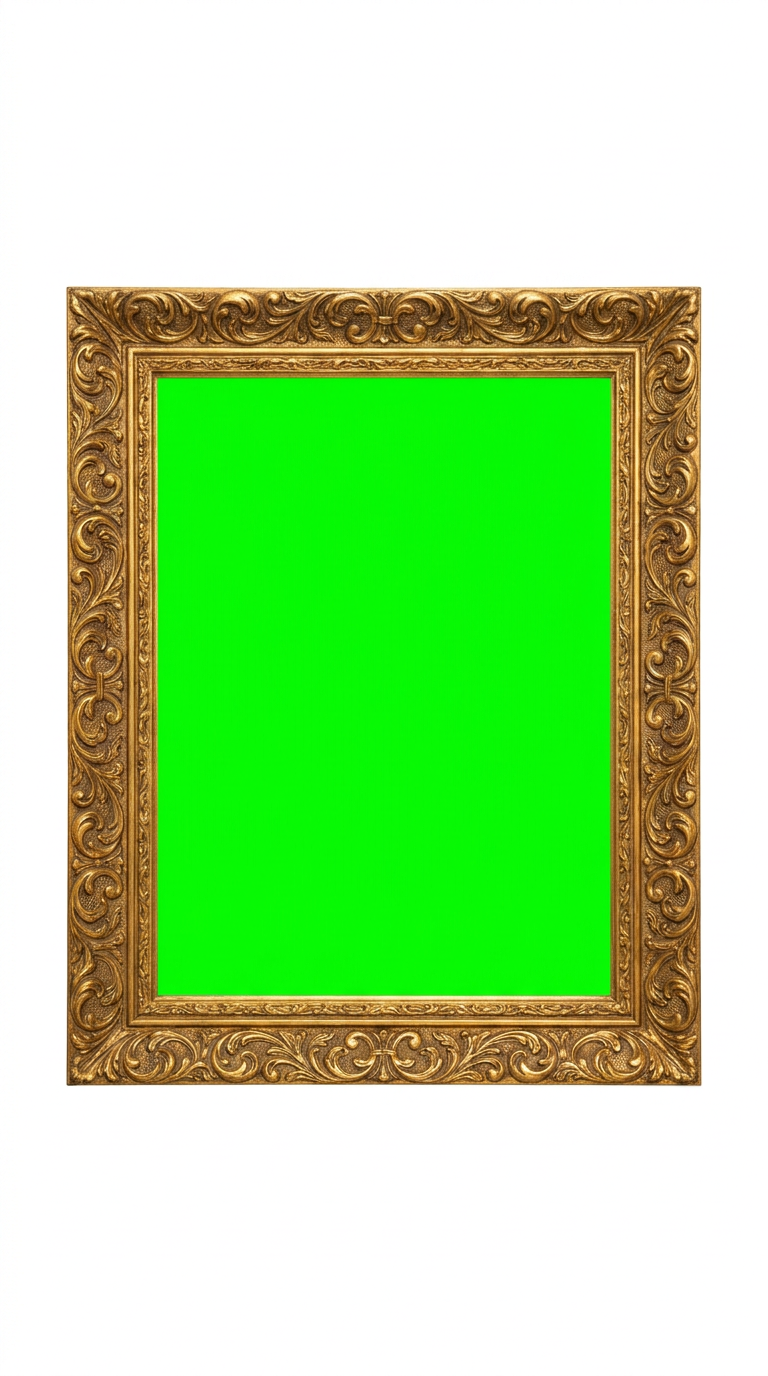
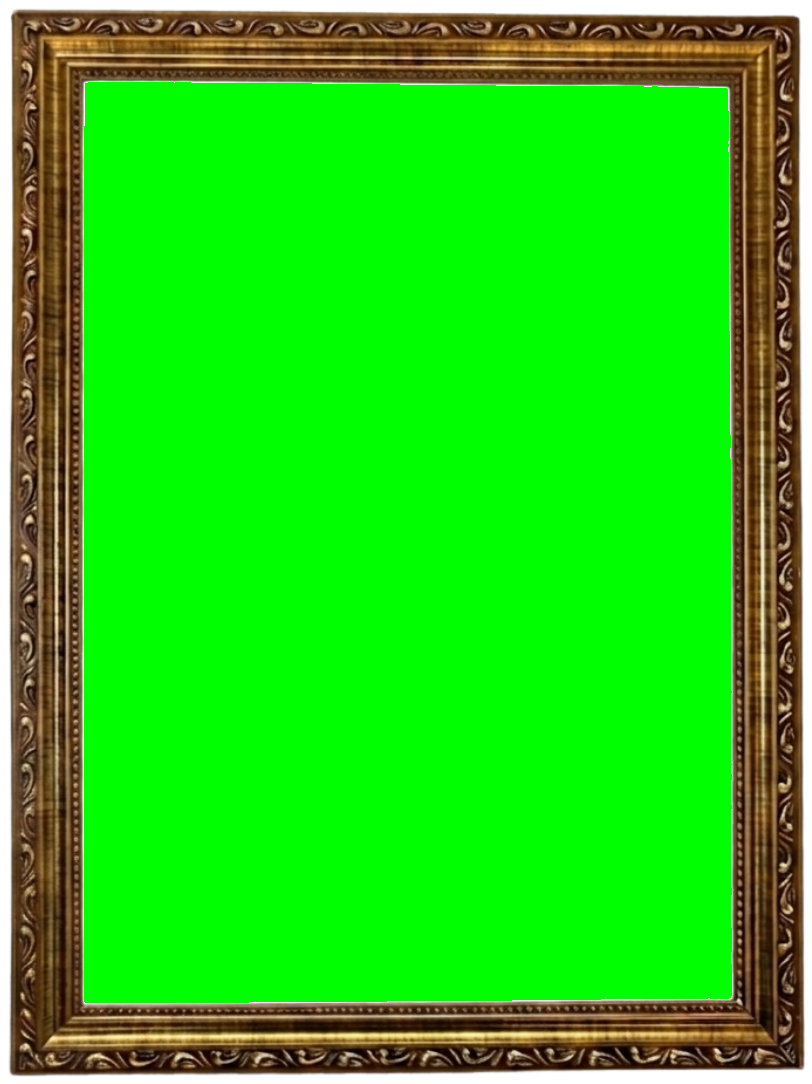
feat(quadros): moldura arabesco REAL do Vitor + conversor de molduras por foto
tools/moldura-asset.py: converte foto de moldura real (PNG transparente ou
fundo branco) no asset do Ermos — detecta o miolo fechado (flood fill da
borda separa exterior/interior), pinta de verde chroma, composita sobre
branco. Reutilizável pras próximas molduras que ele mandar.
Asset arabesco agora é a moldura física dele (substitui a gerada).

diff --git a/tools/moldura-asset.py b/tools/moldura-asset.py
@@ -1,0 +1,64 @@
+#!/usr/bin/env python3
+"""Converte a FOTO de uma moldura real (PNG com fundo transparente OU branco)
+no asset padrao do modo Ermos: moldura + interior VERDE chroma + fundo branco.
+
+E' o formato que o ermos-compose.py espera pra warpar a arte no miolo.
+Uso (a cada moldura nova que o Vitor mandar):
+  tools/.venv-compose/bin/python tools/moldura-asset.py \
+      --in ~/Downloads/moldura.png --out tools/assets/moldura-arabesco.png
+"""
+import argparse
+import sys
+
+import cv2
+import numpy as np
+
+
+def main():
+    ap = argparse.ArgumentParser()
+    ap.add_argument('--in', dest='inp', required=True)
+    ap.add_argument('--out', required=True)
+    args = ap.parse_args()
+
+    img = cv2.imread(args.inp, cv2.IMREAD_UNCHANGED)
+    if img is None:
+        sys.exit(f'imagem ilegivel: {args.inp}')
+
+    if img.ndim == 3 and img.shape[2] == 4:
+        alpha = img[..., 3]
+        rgb = img[..., :3]
+        vazio = (alpha < 20).astype(np.uint8)          # transparente
+    else:
+        rgb = img if img.ndim == 3 else cv2.cvtColor(img, cv2.COLOR_GRAY2BGR)
+        vazio = (rgb.astype(int).sum(axis=2) > 735).astype(np.uint8)  # branco-quase-puro
+        alpha = (1 - vazio) * 255
+
+    # exterior = vazio conectado a borda (flood fill); interior = vazio restante
+    h, w = vazio.shape
+    ff = vazio.copy()
+    mask = np.zeros((h + 2, w + 2), np.uint8)
+    for seed in [(0, 0), (w - 1, 0), (0, h - 1), (w - 1, h - 1)]:
+        if ff[seed[1], seed[0]]:
+            cv2.floodFill(ff, mask, seed, 2)
+    exterior = (ff == 2)
+    interior = (vazio == 1) & ~exterior
+    if interior.sum() < 0.05 * h * w:
+        sys.exit('nao achei o miolo da moldura (interior fechado) — a foto esta inteira?')
+
+    # composita a moldura sobre branco (bordas antialiased ficam limpas)
+    a = (alpha.astype(np.float32) / 255)[..., None]
+    canvas = (rgb * a + 255 * (1 - a)).astype(np.uint8)
+    canvas[interior] = (0, 255, 0)  # miolo = verde chroma puro
+
+    # recorta com folga minima em volta da moldura
+    ys, xs = np.where(alpha > 20)
+    pad = 8
+    y0, y1 = max(0, ys.min() - pad), min(h, ys.max() + pad)
+    x0, x1 = max(0, xs.min() - pad), min(w, xs.max() + pad)
+    out = canvas[y0:y1, x0:x1]
+    cv2.imwrite(args.out, out)
+    print(f'OK asset {out.shape[1]}x{out.shape[0]} -> {args.out}')
+
+
+if __name__ == '__main__':
+    main()
